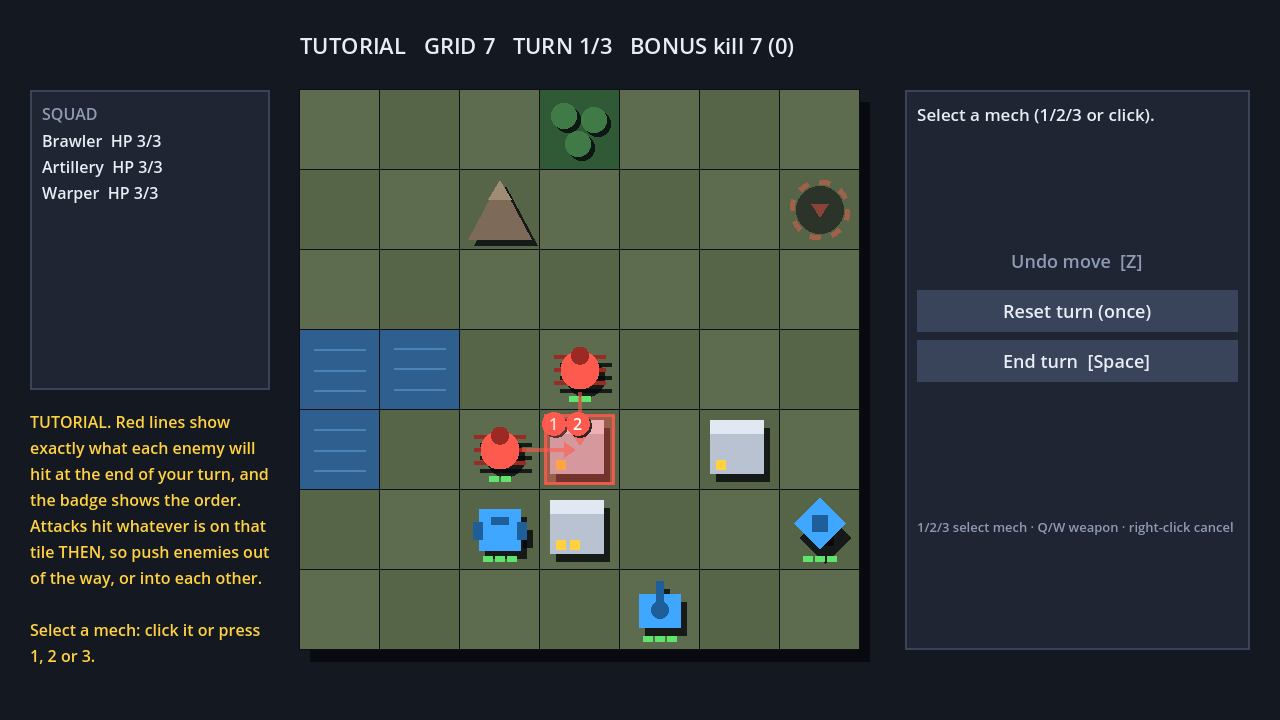
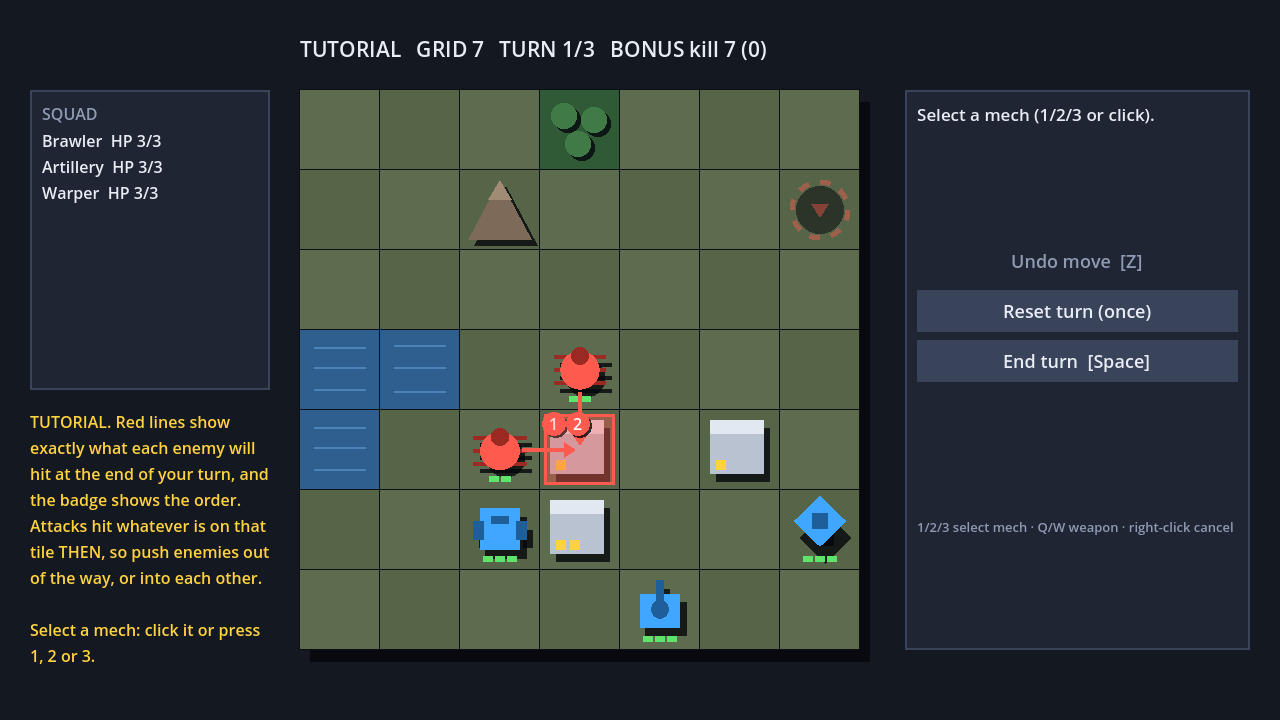
M5: balance sim on target, juice (hit pause, idle anim, SFX hooks), tutorial polish
Claude-Session: https://claude.ai/code/session_013c4jhgTJACT4fE4vsqrirp

diff --git a/PROGRESS.md b/PROGRESS.md
@@ -5,6 +5,22 @@
 - M2: board presentation (BoardView/_draw renderer, UnitView code-drawn units, OverlayView for telegraphs + previews), select/move/undo/attack with live preview, HUD, keyboard shortcuts, `--screenshot=<fixture>[:x:y]`.
 - M3: enemy utility AI (sequential planning), telegraphs with order badges, phase B resolution (fire → attacks in order → spawns), spawn blocking, grid power, win/lose, reset turn; mission generator (needed early for the fuzz); preview property test (2,000 pairs, events + full state fingerprint) and invariant fuzz (500 seeded missions, random-legal-action bot).
 - M4: RunState (4 islands x 2 missions + 2-phase Hive finale), island flavours + templates in the seeded generator, bonus objectives → Reputation, shop (grid / reactor cores / 12-weapon pool, 2 slots per mech), save/continue (user://save.json), run screen, main menu, tutorial fixture with contextual hints, generated SFX (tools/gen_sfx.gd → audio/*.wav). Greedy PlayerBot + tools/sim.gd written.
+- M5: balance sim run (below), hit pause, screen shake, telegraph pulses, idle unit animation, SFX hooks, main menu, tutorial with contextual hints, hover tooltips for every unit/tile and weapon buttons.
+
+## Balance (tools/sim.gd, 300 seeded runs, greedy 1-ply bot)
+Run with `/home/claude/runsim.sh 300`-style parallel workers or `godot --headless -s tools/sim.gd -- --runs=300`.
+
+```
+runs: 300   run win rate: 22.3%
+missions: 2327   grid lost per mission: 1.10   bonus rate: 68.1%
+  final1   played  104  win  87.5%  grid lost/mission 0.89
+  final2   played   91  win  73.6%  grid lost/mission 0.74
+  island1  played  600  win  99.7%  grid lost/mission 0.78
+  island2  played  594  win  97.5%  grid lost/mission 0.88
+  island3  played  542  win  88.9%  grid lost/mission 1.29
+  island4  played  396  win  69.9%  grid lost/mission 1.80
+```
+Targets: island-1 mission win rate > 85% ✓ (99.7%), run win rate 10-30% ✓ (22.3%). The first data pass already met both, so no tuning changes were needed; difficulty ramps through the islands' enemy pools and spawn counts (data/islands.json).
 
 ## State
 - Tests: 101 passing (`godot --headless -s addons/gut/gut_cmdln.gd -gdir=res://tests -gexit`).
@@ -14,4 +30,4 @@
 - none known
 
 ## Next up
-- M5: run the balance sim (300 runs), tune data/ to targets; juice (hit pause, telegraph pulses done, screen shake done), tooltips audit.
+- M6: export presets (Web single-threaded, Windows, macOS, Linux), itch.io zip, ITCH.md, Playwright smoke test of the web build.

diff --git a/DECISIONS.md b/DECISIONS.md
@@ -47,3 +47,8 @@ Ambiguities in SPEC.md resolved with the simplest option that fits. Newest last.
 - **Save** is written after every mission and shop purchase, deleted when the run ends. Continuing restores the run between missions (not mid-mission).
 - **Mission seed** = run seed x 1000 + island/mission offsets, so a saved run regenerates the same next mission.
 - **SFX**: tools/gen_sfx.gd synthesises sfxr-style WAVs (square/saw/sine/noise + pitch slide + envelope) from data/sfx.json into audio/ (bundled, committed).
+
+## M5 (balance + juice)
+- **Bot heuristic** (ai/player_bot.gd): score = kills, grid power, remaining enemy HP, mech damage/losses, plus every telegraph's current hit (building, objective, mech, enemy), spawn blocking and burning enemies. Mechs are picked best-first each turn. Its weights are bot-only constants, not game tuning, so they live in the bot.
+- **Shop policy in the sim**: grid if grid ≤ 5, else reactor cores, else a weapon for a mech with a free slot.
+- **Hit pause**: Engine.time_scale drops to 0.05 for ~70-90 ms on 2+ damage and on deaths; always restored on exit.
